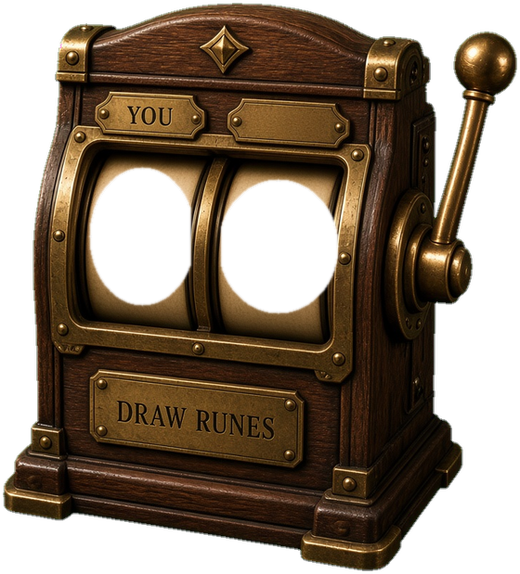
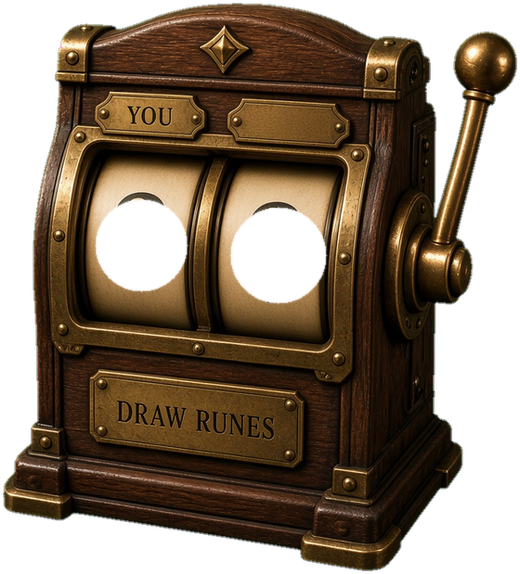
Put the drum faces back and punch only small number windows.
The cream reels are whole again, including the right-hand edge. Names are no longer overlaid on the plaques. Digits show through small holes, sized like Marc marked.

Changed region(s): [[0.4, 0.2962, 0.6769, 0.5627], [0.1538, 0.2666, 0.3692, 0.5331]]

diff --git a/index.html b/index.html
@@ -693,7 +693,7 @@ button,select{font-family:system-ui;background:#6a5949;color:#fff;border-color:#
               <div id="npcRune" class="banditReel"></div>
             </div>
             <img class="banditArt" src="assets/ui/rune_bandit_cabinet.png" alt="" draggable="false">
-            <span class="banditWhoNpc" id="runeNpcName">Opponent</span>
+            <span class="banditWhoNpc hidden" id="runeNpcName">Opponent</span>
             <button id="drawRunes" class="banditDraw" type="button">Draw Runes</button>
             <button id="banditLever" class="banditLever" type="button" tabindex="-1" aria-hidden="true"></button>
           </div>
@@ -6730,17 +6730,6 @@ html,body,#visualShell{color-scheme:only light}
   aspect-ratio:520 / 574;
   max-height:100%;
 }
-#starter .banditStage:before{
-  content:"";
-  position:absolute;
-  z-index:0;
-  left:16%;
-  top:27.5%;
-  width:51%;
-  height:30%;
-  background:#e6d4a8;
-  pointer-events:none;
-}
 #starter .banditArt{
   position:absolute;
   inset:0;
@@ -6752,27 +6741,7 @@ html,body,#visualShell{color-scheme:only light}
   user-select:none;
 }
 #starter .bandit.is-pulling .banditArt{filter:brightness(.93)}
-#starter .banditWhoNpc{
-  position:absolute;
-  left:46%;
-  top:16.4%;
-  width:19.6%;
-  height:8.2%;
-  display:flex;
-  align-items:center;
-  justify-content:center;
-  z-index:5;
-  pointer-events:none;
-  font-family:Georgia,"Times New Roman",serif;
-  font-size:3.5cqw;
-  font-weight:800;
-  letter-spacing:.04em;
-  text-transform:uppercase;
-  color:#2a1a10;
-  overflow:hidden;
-  white-space:nowrap;
-  text-overflow:ellipsis;
-}
+#starter .banditWhoNpc{display:none!important}
 #starter .banditWindow{
   --reel-window:1.32;
   --reel-cell:calc(100% / var(--reel-window));
@@ -6785,16 +6754,16 @@ html,body,#visualShell{color-scheme:only light}
   border-radius:50%;
 }
 #starter .banditWindowYou{
-  left:16.6%;
-  top:28.5%;
-  width:20.7%;
-  height:25.3%;
+  left:17.8%;
+  top:34.2%;
+  width:18.8%;
+  height:17.1%;
 }
 #starter .banditWindowNpc{
-  left:42%;
-  top:30.6%;
-  width:23.8%;
-  height:24.6%;
+  left:43.8%;
+  top:35.6%;
+  width:19.6%;
+  height:17.8%;
 }
 #starter .banditWindow:after{
   content:"";

diff --git a/service-worker.js b/service-worker.js
@@ -1,4 +1,4 @@
-const CACHE_NAME = 'card-road-pwa-v70-bandit-blend';
+const CACHE_NAME = 'card-road-pwa-v71-bandit-windows';
 const CORE_ASSETS = [
   './index.html',
   './manifest.webmanifest',
